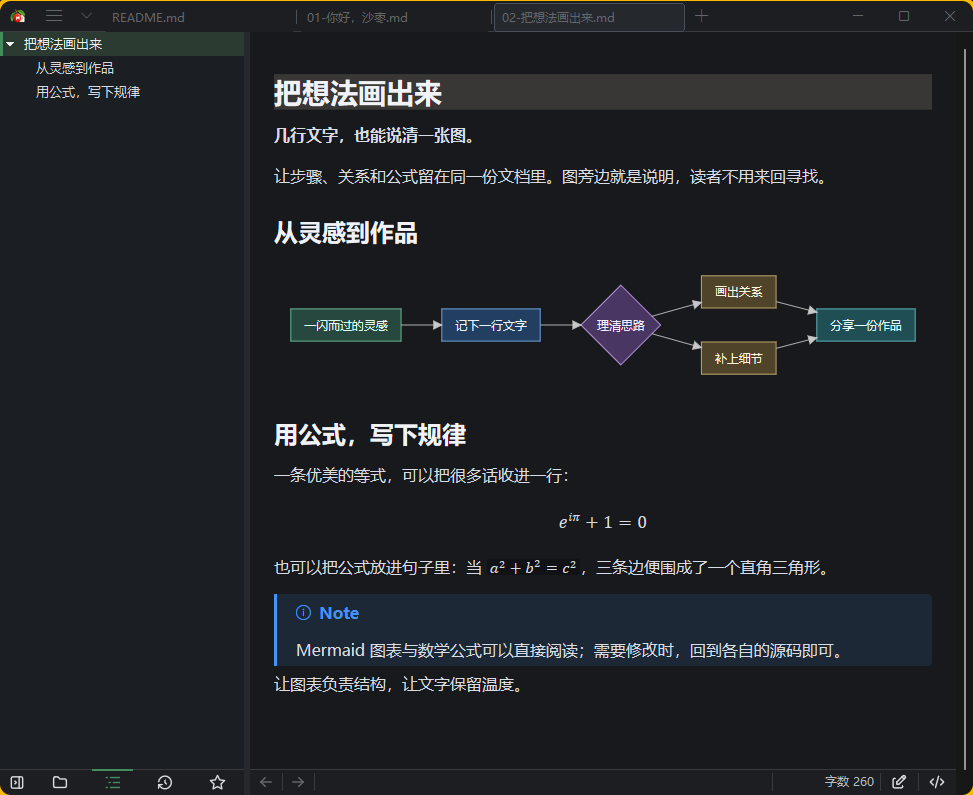
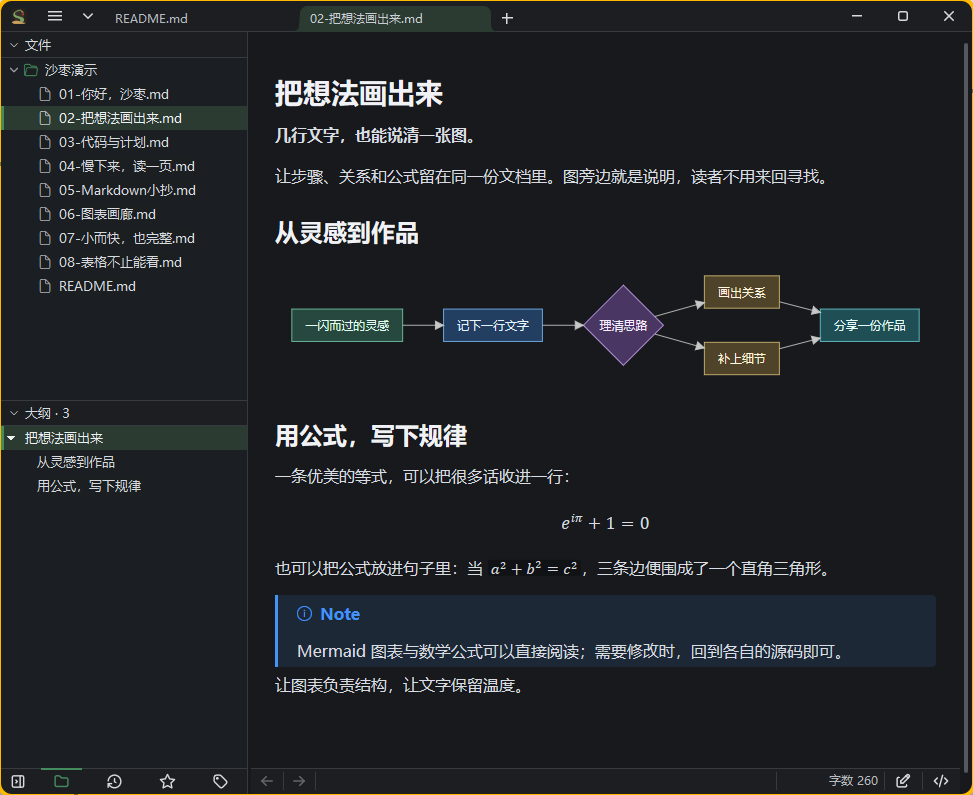
更新 v0.6.20 发布说明和中英文 README 截图

diff --git a/doc/CHANGELOG.md b/doc/CHANGELOG.md
@@ -4,6 +4,62 @@
 
 各版本的更新、已知问题与当时的验证说明集中保存在这里，最新的在前。以下内容从原公开 README 迁移，不代表本次文档更新重新执行了历史测试。v0.5.12–v0.5.15 未单独发布，已包含在 v0.6.0 中。
 
+## v0.6.20 — 段落抓手与拖放、插入线、颜色色块、Chrome 式标签、新的查找窗口、批量打开提速
+
+Windows x64 便携版。来源：小众软件论坛 93080 第 154～176 楼、GitHub issue #22～#32 与用户直接反馈。
+
+### 新功能
+
+- **段落抓手 ⋮⋮**：鼠标悬停的块或光标所在的块，左侧显示 ⋮⋮（段落、标题、列表项、引用、代码块、表格、图片、分隔线都有）。按住拖动，强调色横线标出落点，松开整块移过去，撤销一次还原；列表项连同子项一起移动。单击抓手，光标到这一块开头。
+- **选中内容拖放**：选中文字后在选区上按住拖动，拖到文字中显示竖线、拖到两块之间显示横线，松开即移动过去（加粗等格式被切开时自动补全标记），撤销一次还原；**按住 Ctrl 拖动为复制**。整段拖走又拖回原处时不做改动；整段移到别处后，原位置不多留空行。
+- **向上 / 向下复制块**：Alt+Shift+↓ / ↑ 把光标所在的块复制到下面 / 上面，列表项连同子项；光标在代码块里时仍是列选择。
+- **块与块之间的插入线**（用户反馈“不上不下”的光标）：表格、代码块、图片、公式、图表的前后显示 1 像素的插入线“+ ────”。方向键停到这里直接输入就是新段落；鼠标悬停显示，点“+”插入空行。不撑开版面，锁定与源码视图没有。
+- **颜色值色块**：正文、标题、列表、引用和表格里的 `#DDB46A` 这类颜色值（#RGB、#RGBA、#RRGGBB、#RRGGBBAA），以及只写颜色值的行内代码，后面显示一个该颜色的小方块。`#2024` 这类纯数字、`#cafe` 这类单词不算；代码块和链接里不显示。设置 ▸ 阅读中可关闭。
+- **Chrome 式标签页**：当前标签用当前主题的“当前行”颜色；放不下时一起变窄，再放不下时左右出现实心小三角，点一下或用滚轮滚动一个标签，哪边有没显示出来的标签哪边才有。显示标签后，程序图标、≡、˅ 保持在标题栏正中，不再下移。标签上的 × 改为更细更清楚的图标。
+- **新的查找与替换窗口**（参考 VS Code）：没有标题栏，拖动空白处移动，右上角 × 关闭；上一个 / 下一个、替换 / 全部替换、区分大小写、全字匹配、正则表达式、仅在选区都改为方形图标（Alt+C / W / R / L），悬停显示名称和快捷键；左下角收起替换时显示“查找”，展开时显示“替换”；窗口更窄。找到的内容被查找窗口挡住时，自动滚到页面中部（GitHub #30）。
+- **代码块与表格的工具条**（论坛 176）：设置 ▸ 阅读：悬停时显示（默认）/ 始终显示 / 只在编辑时显示。悬停时代码块显示语言和全部按钮，表格只显示不改内容的按钮。
+- **细滚动条**：平时只有一根居中的细滑块，没有箭头；鼠标移上时两端出现小三角，滑块向左右两边加宽到与 Edge 相同；所有滚动条一致。Shift+单击空白处直接跳到该位置，也可在设置中改为单击即跳（GitHub #28、#30）。侧栏的滚动条在侧栏与正文的分隔线之间居中。
+- **侧栏分隔线**：侧栏与正文之间改为一条 1 像素的细线（参考 Claude），文件与大纲之间的横线接到这条竖线上；拖动侧栏宽度、右侧大纲宽度或窗格与大纲之间的线时，各栏整栏实时重绘，不留残影。
+- **超出页面滚动的表格**：单列最宽为正文宽度的 60%（设置可选 40% / 60% / 80% / 不限），超过的单元格在列内换行；表格比窗口长时，横向滚动条固定在窗口底部。
+- **插入 ▸ 图表**（GitHub #32）：空白图表，以及流程图、时序图、甘特图、类图、状态图、饼图、思维导图、实体关系图 8 个 Mermaid 模板。
+- **快捷键**（GitHub #30、论坛 174）：复制为无格式文本 Ctrl+Alt+C；复制文件路径 Alt+Shift+C；打开所在文件夹 Alt+Shift+R，均可在设置中修改。
+- **标签页与启动**（GitHub #30、#31，论坛 154、174）：Ctrl+N 新建标签页（可改回新建窗口）；关闭最后一个标签页时关闭窗口（选项）；只运行一个 Shazao（选项）；命令行可以直接给文件夹；启动时恢复上次的文件与文件夹（选项，默认关闭；先显示上次在看的文件，其余在后台读入）。
+- **系统托盘**（设置 ▸ 编辑，默认关闭）：用全局快捷键隐藏时只留托盘图标；关闭窗口时隐藏到托盘。
+- **链接悬停卡片**：链接到文本或 Markdown 文件时显示文件开头的内容（带行号，可滚动），可在卡片里选择复制；右键可打开、复制完整路径、打开所在文件夹。
+- **最近打开**：可清空，可“从列表中移除此文件夹的文件”一次移除一批；首页的最近打开右键可打开、打开所在文件夹、复制路径、从列表中移除（也可按 Del）。
+- **PDF 导出带书签**（论坛 171、172），需要 Edge / Chrome 123 及以上。
+- **新的程序图标**。
+
+### 修复与改进
+
+- **一次拖入几十个文件很慢、关闭其他标签页很慢**（用户反馈）：每打开一个文件都把“最近打开”写一次设置文件并刷新侧栏，越多越慢。现在一批文件打开完再一次记下；一次拖入 50 个文件约 2～3 秒 → 0.4～0.9 秒，打开过程中显示进度，可按 Escape 停止；关闭其他标签页不再逐个刷新侧栏。
+- **启动慢、退出卡**：设置文件原来逐项写入（保存一次设置要把 Shazao.ini 整个读写一百多遍），现在一次写入；ini 约 75 KB 时“打开文件夹”约 1.0 → 0.02 秒，关闭窗口约 0.15～0.2 秒。
+- **设置窗口乱码**（论坛 159/167/168，GitHub #26）。
+- **大纲残留上一份文档的标题**，切换主题后也不消失（GitHub #29、#23）。
+- **含 HTML 颜色标记的文字显示为灰色源码**（GitHub #23）：`<font color>`、`<span style="color:…">` 显示颜色，深色主题里太暗的颜色自动提亮。
+- **底部弹出菜单一闪就没**（GitHub #27，论坛 175）：放不下时在按钮上方展开。
+- **拖动滚动条时滑块一跳一跳**（GitHub #24）；快速拖动时内容跟手。
+- **没有打开文档时“打开文件夹…”是灰的**（GitHub #31）。
+- **光标与当前行高亮不在一行**；**在空行里输入或删除时下面的行跳动**。
+- **大纲与右下角字数的中文横躺**（GitHub #22）：找不到设置的字体时不再挑中竖排字体。
+- **es: 等自定义协议链接打不开**（论坛 170）：交给系统打开，危险协议不打开。
+- **PDF 导出时高代码块整块挪页**（论坛 171）：长代码块、长表格在页尾处接着排到下一页。
+- **超长单行**（GitHub #25，论坛 155）：10 万字的代码行中移动光标约 200 → 33 毫秒，绘制 84 → 12 毫秒；长代码行横向滚到很远处时文字不显示的问题已修正。
+- 标题栏高度 32，图标与文字与状态栏一致、不发虚；编辑边框默认 1 像素。
+- 查找窗口、标签页上的图标改为抗锯齿绘制，清晰程度一致。
+
+### 已知问题
+
+- 在 10 万字的超长单行里逐字输入或删除，每次仍约 170～190 毫秒，留待长行分段排版。
+- 正文中偶尔出现的空白间隙未能复现，留待复现后处理。
+- 窗口分栏（GitHub #1）在 v0.7.0。
+
+### 使用说明
+
+解压后运行 `Shazao-markdown.exe`。压缩包里另有 `Shazao-markdown-UPX.exe`：同一版本用 UPX 压缩的副本，体积约为原版的四成，功能相同，启动时先在内存中解压（本机七次启动到可响应的中位数为 0.60 秒，原版为 0.46 秒；新压缩文件的首次冒烟启动约 1.85 秒）；个别杀毒软件可能误报 UPX 压缩的程序，推荐使用原版。两者使用同一份设置。版本由目录与 ZIP 名区分，EXE 文件名保持不变。第三方组件说明随包提供（本版新增 VS Code 的 Codicons 图标，CC BY 4.0）。
+
+验证：正式构建通过 60 项核心测试；简体中文、繁体中文和英文界面校验通过。针对批量打开、选区拖放、抓手、查找替换、色块、标签页、滚动条及 PDF 分页等变化进行了实机回归。两个 EXE 都通过了打开文档、编辑和保存检查。
+
 ## v0.6.19 — 大文件、文档标签、细滚动条、标签页拖出、大纲位置、表格
 
 Windows x64 便携版。

diff --git a/README.en.md b/README.en.md
@@ -22,7 +22,7 @@ Notes:
 
 ## Download and run
 
-- [Download the latest stable release](https://github.com/yakoye/Shazao-markdown/releases/latest): run the EXE directly, or download and extract the win64 ZIP, which includes release notes and third-party notices. Requires 64-bit Windows 10 or 11.
+- [Download the latest stable release](https://github.com/yakoye/Shazao-markdown/releases/latest): run the EXE directly, or download and extract the win64 ZIP, which includes release notes and third-party notices (and a UPX-compressed copy about 40% of the size, with the same features). Requires 64-bit Windows 10 or 11.
 - History, drafts, recovery copies, image cache, persistent undo, and reading state are stored in `%LOCALAPPDATA%\Shazao` by default and can be managed under Data and Storage in Settings. INI files, shortcuts, and the user dictionary remain editable. Legacy folders such as `Shazao-history` remain readable and are not automatically deleted during upgrades.
 - To carry the app and its data together, for example on a USB drive, create a `Shazao-data` folder next to the EXE; all data is then kept there (portable mode).
 - New versions can be downloaded from Help ▸ Check for updates…, and are verified against the published SHA256SUMS. You can also choose a weekly check in Settings (off by default).
@@ -30,12 +30,12 @@ Notes:
 
 ## Main features
 
-- **Read comfortably, edit directly.** Write in the formatted document, switch to source or locked reading, and use shared undo history and regular-expression find and replace.
-- **Find your way through long documents.** File tree, outline, heading folding, recent files grouped by date, favorites, and remembered reading positions; the outline can sit on the left or the right. Search, pin, and reorder tabs; drag a tab out to open it in a new window, or onto another window to move it there.
+- **Read comfortably, edit directly.** Write in the formatted document, switch to source or locked reading, drag a block by its handle or drag selected text to move it (hold Ctrl to copy), and use shared undo history and regular-expression find and replace.
+- **Find your way through long documents.** File tree, outline, heading folding, recent files grouped by date, favorites, and remembered reading positions; the outline can sit on the left or the right. Search, pin, and reorder tabs, which narrow together and scroll when space runs out; drag a tab out to open it in a new window, or onto another window to move it there.
 - **Open large files too.** A 1 GB file shows its text in about 2 seconds. Edits, undo, and saving work only on the changed part, and files over 64 MB are saved in the background.
 - **Connect your documents.** Hover over a link to preview a web page, file, image, folder, or heading. Tags in the front matter appear above the text, and the Tags pane in the sidebar lists every tag in the folder with its documents.
 - **Explain an idea with a few lines.** View a range of Mermaid diagrams and math directly alongside your text, keeping flows, structures, and explanations together.
-- **Keep tables and code in context.** GFM tables, task lists, syntax highlighting, footnotes, reference links, and callouts. Pasting from browsers, Word, or Excel preserves supported structure where possible.
+- **Keep tables and code in context.** GFM tables, task lists, syntax highlighting, footnotes, reference links, and callouts; color values such as `#DDB46A` show a swatch beside them. Pasting from browsers, Word, or Excel preserves supported structure where possible.
 - **Keep images with your document.** Edit image source in place, resize and view images, use Base64 images, and export a single Markdown file with images embedded. Common content such as static HTML tables is also supported.
 - **Make reading feel like your own.** Light, dark, and preset color schemes, adjustable fonts, line spacing, and reading width. Includes focus and typewriter modes, folder-specific appearance, and Wiki links. The interface is available in Simplified Chinese, Traditional Chinese, and English, and Settings can be searched directly.
 - **Take your work where it needs to go.** Export to HTML, PDF, Word, and EPUB, or reuse CSS templates for batch HTML/PDF export. View, compare, and restore local document history.
@@ -77,7 +77,7 @@ I care about **opening speed, scrolling, input responsiveness, and large-documen
 
 ### Screenshots
 
-These are actual screenshots of `v0.6.17`, using the same set of [demo documents](demo/README.md).
+These are actual screenshots of `v0.6.20`, using the same set of [demo documents](demo/README.md).
 
 **Open, read, write · Shazao Light**
 

diff --git a/doc/PUBLIC_ROADMAP.md b/doc/PUBLIC_ROADMAP.md
@@ -4,12 +4,13 @@
 
 ## 已公开的版本安排
 
-以下安排在 v0.6.19 发布时更新；未完成的项目顺延，不表示这些功能已经全部完成。
+以下安排在 v0.6.20 发布时更新；未完成的项目顺延，不表示这些功能已经全部完成。
 
 | 版本 | 计划 |
 | :--- | :--- |
 | v0.6.18（已发布） | 已完成：粘贴单元格自动补足行列；分割线一行内拖动选中并删除；PELE 图形文字错位与发虚；另加界面语言、设置搜索、查找“仅在选区”、图中文字选中复制、侧栏面板快捷键、图片目录自定义路径等，详见[版本历史](CHANGELOG.md) |
 | v0.6.19（已发布） | 已完成：标签页拖出成新窗口、拖入另一窗口合并；检查更新并下载新版本；侧栏开合与大量标题首次填充提速；另加大文件打开、编辑与后台保存，文档标签，细滚动条，大纲位置，表格列宽、字号与横向滚动，便携模式，链接预览，附件去重等，详见[版本历史](CHANGELOG.md) |
+| v0.6.20（已发布） | 论坛与 GitHub 反馈（#22～#32）：段落抓手与选中拖放（Ctrl 复制）、块间插入线、颜色值色块、Chrome 式标签、新的查找与替换窗口、细滚动条与侧栏分隔线、代码块与表格工具条、Mermaid 模板、托盘、批量打开与启动退出提速等，详见[版本历史](CHANGELOG.md) |
 | v0.7.0 | 窗口分栏，每栏一组标签，标签可在两栏间移动或复制；自动保存开关；Ctrl+D 多处选择同时编辑 |
 | 以后 | Mermaid / PELE 图形语义继续扩展；程序体积精简 |
 

diff --git a/demo/README.md b/demo/README.md
@@ -57,7 +57,8 @@
 
 ## 当前截图记录
 
-- 2026-10-28，用户更新了 README 的配图与说明；当前展示版本为 `v0.6.17`，中英文共用同一组图片。
+- 2026-11-14，更新为 `v0.6.20` 界面：四张主截图与两张官网配色截图，中英文共用同一组图片。主截图采用文件在上、大纲在下的侧栏布局。
+- 2026-10-28，用户更新了 README 的配图与说明；当时的展示版本为 `v0.6.17`。
 - 四张主截图为 973×795，分别展示 Shazao 浅色、Shazao 深色、Tokyo Night 与 Solarized Light；另有浅深两组配色画廊。
 - 图片位于 `doc/images/readme/`。更新时保留真实界面与对应程序版本，不把旧候选拍摄的 EXE 大小或哈希当作新截图的程序身份。
 - 这是一套介绍与演示素材，截图本身不代表完成了正式发布或全量兼容性验收。
